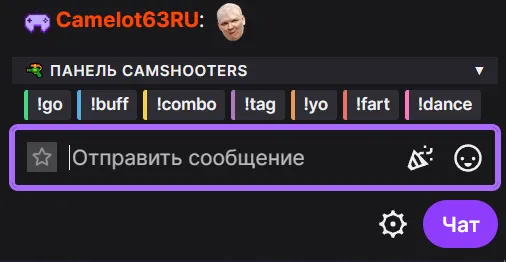
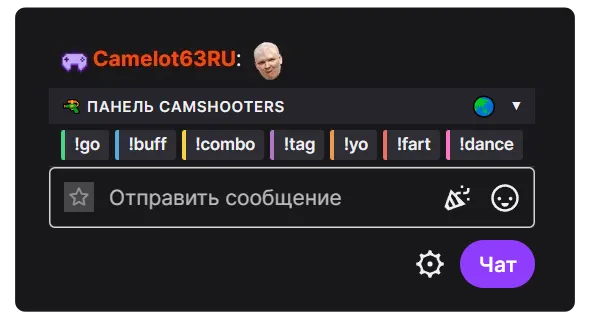
🔫 Добавил кнопки голосования за следующую карту

diff --git a/Twitch_CamShooters_Controller.user.js b/Twitch_CamShooters_Controller.user.js
@@ -1,7 +1,7 @@
 // ==UserScript==
 // @name         Twitch CamShooters Controller
 // @namespace    https://github.com/HermanGuilliman/Twitch-CamShooters-Controller
-// @version      0.2
+// @version      0.3
 // @description  Компактная панель управления для игры CamShooters (by Camelot63RU)
 // @author       Herman Guilliman
 // @match        https://www.twitch.tv/*
@@ -19,26 +19,21 @@
     const CONFIG = {
         containerId: "twitch-camshooters-panel",
         storageKey: "camshooters_collapsed",
+
         commands: [
             { cmd: "!go", hint: "Принять участие в битве", color: "#4fd682" },
-            {
-                cmd: "!buff",
-                hint: "Случайное влияние на персонажа",
-                color: "#5dade2",
-            },
-            {
-                cmd: "!combo",
-                hint: "Активировать ивент (нужно 3 килла)",
-                color: "#f4d03f",
-            },
-            {
-                cmd: "!tag",
-                hint: "Нарисовать под собой граффити",
-                color: "#af7ac5",
-            },
-            { cmd: "!yo", hint: "Обратить на себя внимание", color: "#eb984e" },
-            { cmd: "!fart", hint: "Дать гадзу!", color: "#ec7063" },
+            { cmd: "!buff", hint: "Случайное влияние на персонажа", color: "#5dade2" },
+            { cmd: "!combo", hint: "Активировать ивент (нужно 3 килла)", color: "#f4d03f" },
+            { cmd: "!tag", hint: "Нарисовать граффити под ногами", color: "#af7ac5" },
+            { cmd: "!yo", hint: "Обратить на себя внимание противников", color: "#eb984e" },
+            { cmd: "!fart", hint: "Пустить газы", color: "#ec7063" },
             { cmd: "!dance", hint: "Танцевать", color: "#ff79c6" },
+        ],
+
+        maps: [
+            { cmd: "!map 1", label: "Карта 1", color: "#1abc9c" },
+            { cmd: "!map 2", label: "Карта 2", color: "#1abc9c" },
+            { cmd: "!map 3", label: "Карта 3", color: "#1abc9c" },
         ],
     };
 
@@ -173,28 +168,45 @@
                 justifyContent: "space-between",
                 userSelect: "none",
                 backgroundColor: "var(--color-background-alt)",
+                height: "24px",
             });
 
             const titleSpan = document.createElement("span");
             titleSpan.textContent = "🔫 Панель CamShooters";
+
+            const rightControls = document.createElement("div");
+            Object.assign(rightControls.style, {
+                display: "flex",
+                alignItems: "center",
+                gap: "8px",
+            });
+
+            const mapDropdown = this._createMapDropdownInHeader();
 
             const arrowSpan = document.createElement("span");
             arrowSpan.textContent = this.isCollapsed ? "▶" : "▼";
             arrowSpan.style.fontSize = "8px";
             this.elements.arrowSpan = arrowSpan;
 
-            header.appendChild(titleSpan);
-            header.appendChild(arrowSpan);
+            rightControls.appendChild(mapDropdown);
+            rightControls.appendChild(arrowSpan);
 
-            header.onclick = () => this.toggleCollapse();
+            header.appendChild(titleSpan);
+            header.appendChild(rightControls);
+
+            header.onclick = (e) => {
+                if (!mapDropdown.contains(e.target)) {
+                    this.toggleCollapse();
+                }
+            };
 
             return header;
         }
 
-        _createButton(data) {
+        _createButton(data, labelOverride = null) {
             const btn = document.createElement("button");
-            btn.textContent = data.cmd;
-            btn.title = data.hint;
+            btn.textContent = labelOverride || data.cmd;
+            btn.title = data.hint || data.cmd;
 
             Object.assign(btn.style, {
                 backgroundColor:
@@ -209,6 +221,8 @@
                 fontSize: "11px",
                 fontFamily: "inherit",
                 transition: "filter 0.2s, background-color 0.2s",
+                flexGrow: "1",
+                textAlign: "center",
             });
 
             btn.onmouseenter = () =>
@@ -226,6 +240,70 @@
 
             return btn;
         }
+
+        _createMapDropdownInHeader() {
+            const wrapper = document.createElement("div");
+            Object.assign(wrapper.style, {
+                position: "relative",
+                display: "flex",
+                alignItems: "center",
+            });
+
+            const globeIcon = document.createElement("span");
+            globeIcon.textContent = "🌏";
+            globeIcon.title = "Выбор карты";
+            Object.assign(globeIcon.style, {
+                cursor: "pointer",
+                fontSize: "14px",
+                transition: "opacity 0.2s",
+            });
+
+            const dropdown = document.createElement("div");
+            Object.assign(dropdown.style, {
+                position: "absolute",
+                bottom: "100%",
+                right: "0",
+                backgroundColor: "var(--color-background-alt)",
+                border: "1px solid var(--color-border-base)",
+                borderRadius: "4px",
+                padding: "4px",
+                display: "none",
+                flexDirection: "column",
+                gap: "4px",
+                zIndex: "10001",
+                boxShadow: "0 4px 6px rgba(0,0,0,0.3)",
+                minWidth: "80px",
+            });
+
+            CONFIG.maps.forEach((mapData) => {
+                const mapBtn = this._createButton(mapData, mapData.label);
+                mapBtn.style.textAlign = "left";
+                mapBtn.style.fontSize = "10px";
+                mapBtn.onclick = (e) => {
+                    e.preventDefault();
+                    e.stopPropagation();
+                    this.chatService.sendMessage(mapData.cmd);
+                    dropdown.style.display = "none";
+                };
+                dropdown.appendChild(mapBtn);
+            });
+
+            wrapper.onmouseenter = () => {
+                dropdown.style.display = "flex";
+                globeIcon.style.opacity = "0.7";
+            };
+            wrapper.onmouseleave = () => {
+                dropdown.style.display = "none";
+                globeIcon.style.opacity = "1";
+            };
+
+            globeIcon.onclick = (e) => e.stopPropagation();
+
+            wrapper.appendChild(globeIcon);
+            wrapper.appendChild(dropdown);
+
+            return wrapper;
+        }
     }
 
     class CamShootersApp {
@@ -237,7 +315,6 @@
 
         init() {
             console.log("[CamShooters] Panel started");
-
             this.checkInterval = setInterval(() => this.mount(), 1000);
         }
 

diff --git a/README.md b/README.md
@@ -1,10 +1,10 @@
-# 🎮 Twitch CamShooters Controller
+# 🔫 Twitch CamShooters Controller
 
-![Version](https://img.shields.io/badge/version-0.1-blue) ![Author](https://img.shields.io/badge/author-HermanGuilliman-green)
+![Version](https://img.shields.io/badge/version-0.3-black) ![Author](https://img.shields.io/badge/author-HermanGuilliman-black)
 
-Пользовательский скрипт (UserScript) для удобного управления в интерактивной игре **CamShooters** (от стримера/разработчика **Camelot63RU**) прямо из чата Twitch.
+Пользовательский скрипт для удобного управления в интерактивной игре [**CamShooters**](https://t.me/TDMzone/1448) (от стримера и независимого разработчика видеоигр [**Camelot63RU**](https://www.twitch.tv/camelot63ru)).
 
-Добавляет компактную панель с кнопками команд над полем ввода чата. Больше не нужно вводить команды вручную!
+Скрипт добавляет компактную панель с кнопками команд над полем ввода чата Twitch, убирает необходимость ручного ввода основных команд, увеличивает скорость реакции и помогает избежать опечаток.
 
 ## 📸 Скриншот
 
@@ -14,7 +14,7 @@
 
 *   **Компактный дизайн**: Панель занимает минимум места и идеально вписывается в темную тему Twitch.
 *   **Сворачиваемость**: Панель можно свернуть одним кликом, скрипт запоминает состояние.
-*   **Цветовая кодировка**: Каждая команда имеет свой цветовой акцент для быстрого поиска.
+*   **Цветовая кодировка**: Каждая команда имеет свой цветовой акцент для быстрого визуального поиска.
 *   **Подсказки**: При наведении на кнопку появляется описание действия.
 
 ## 📥 Установка
@@ -34,20 +34,27 @@
 
 | Кнопка | Цвет | Действие в игре |
 | :--- | :--- | :--- |
-| **!go** | 🟢 Зеленый | Принять участие в битве |
-| **!buff** | 🔵 Синий | Случайное влияние на персонажа |
-| **!combo** | 🟡 Золотой | Активировать ивент (нужно 3 килла) |
-| **!tag** | 🟣 Фиолетовый | Нарисовать под собой граффити |
-| **!yo** | 🟠 Оранжевый | Обратить на себя внимание |
-| **!fart** | 🔴 Красный | Дать гадзу! |
-| **!dance** | 🌸 Розовый | Танцевать |
+| **!go** | <span style="display:inline-block;width:16px;height:16px;border-radius:50%;background:#4fd682;"></span> Зеленый | Принять участие в битве |
+| **!buff** | <span style="display:inline-block;width:16px;height:16px;border-radius:50%;background:#5dade2;"></span> Синий | Случайное влияние на персонажа |
+| **!combo** | <span style="display:inline-block;width:16px;height:16px;border-radius:50%;background:#f4d03f;"></span> Золотой | Активировать ивент (нужно 3 килла) |
+| **!tag** | <span style="display:inline-block;width:16px;height:16px;border-radius:50%;background:#af7ac5;"></span> Фиолетовый | Нарисовать граффити под ногами|
+| **!yo** | <span style="display:inline-block;width:16px;height:16px;border-radius:50%;background:#eb984e;"></span> Оранжевый | Обратить на себя внимание противников |
+| **!fart** | <span style="display:inline-block;width:16px;height:16px;border-radius:50%;background:#ec7063;"></span> Красный | Пустить газы |
+| **!dance** | <span style="display:inline-block;width:16px;height:16px;border-radius:50%;background:#ff79c6;"></span> Розовый | Танцевать |
+
+Кнопки для голосования за следующую карту доступны при наведении мыши на иконку глобуса 🌏  
+| Кнопка | Цвет | Действие в игре |
+| :--- | :--- | :--- |
+| **!map 1** | <span style="display:inline-block;width:16px;height:16px;border-radius:50%;background:#1abc9c;"></span> Изумрудный | Проголосовать за первую карту
+| **!map 2** | <span style="display:inline-block;width:16px;height:16px;border-radius:50%;background:#1abc9c;"></span> Изумрудный | Проголосовать за вторую карту
+| **!map 3** | <span style="display:inline-block;width:16px;height:16px;border-radius:50%;background:#1abc9c;"></span> Изумрудный | Проголосовать за третью карту
 
 ## 🛠 Разработка
 
 *   **Автор:** Herman Guilliman
 *   **Email:** [hermanguilliman@proton.me](mailto:hermanguilliman@proton.me)
-*   **Версия:** 0.1
+*   **Версия:** 0.3
 
 ## 🤝 Благодарности
 
-Скрипт создан для сообщества и поддержки игры **CamShooters** от **Camelot63RU**.
+Скрипт создан для сообщества и поддержки игры **CamShooters** от [**Camelot63RU**](https://www.twitch.tv/camelot63ru).
